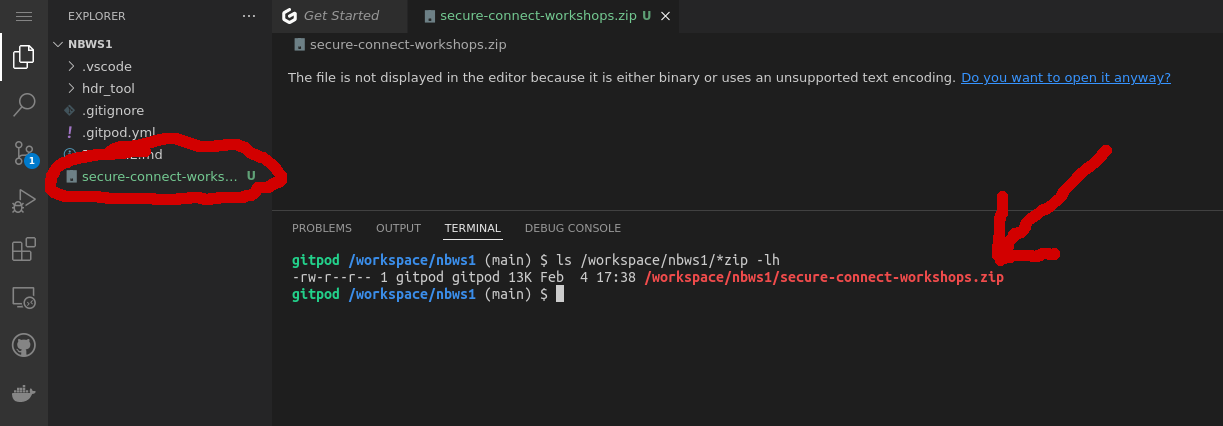
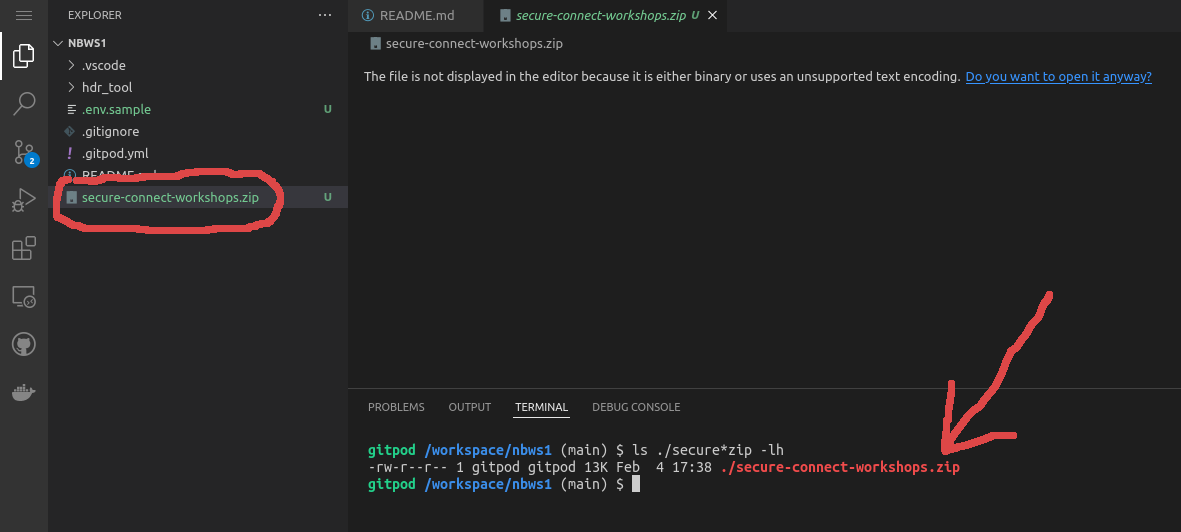
more instructions and guide

diff --git a/README.md b/README.md
@@ -22,7 +22,7 @@ In this repository you will find all material and references you need:
 1. Before you start
 2. Create your Astra DB instance
 3. Launch Gitpod and setup NoSQLBench
-4. XXX
+4. Run benchmarks
 
 
 
@@ -97,7 +97,8 @@ and scripts, even launching containers from within it).
 
 The button below will: spawn your own Gitpod container + clone this repository
 in it + preinstall the required dependencies: **ctrl-click on
-it** to make sure you "Open in new tab":
+it** to make sure you "Open in new tab" (Note: you may have to authenticate
+through Github in the process):
 
 [![Open in Gitpod](https://gitpod.io/button/open-in-gitpod.svg)](https://gitpod.io/#https://github.com/hemidactylus/nbws1)
 
@@ -157,56 +158,169 @@ the file navigator panel ("Explorer") on the left of the Gitpod view.
 Once you drop it you will see it listed in the file explorer itself.
 As a check, you can issue the command
 ```
-ls /workspace/nbws1/*zip -lh
+ls ./secure*zip -lh
 ```
 
-so that you get the _full path to your bundle file_ (and also verify that it is
-the correct size).
+so that you get the _relative path to your bundle file_ (and also verify that it is
+the correct size). Note that, as per best practices with NoSQLBench, (relative)
+paths to files should start with `./`.
 
 <details><summary>Show me</summary>
     <img src="https://github.com/hemidactylus/nbws1/raw/main/images/gitpod_uploading_bundle_2_annotated.png?raw=true" />
 </details>
 
 
-### Configure the Astra DB token
+### Configure the Astra DB parameters
 
-with an `.env` file you then `source`.
+If we want NoSQLBench to access the Astra DB instance, we have to pass it
+the required connection parameters and secret. To do so, we now set up
+a `.env` file, which will make our life easier later.
 
+Copy the provided template file to a new one and open it in the Gitpod
+file editor:
 ```
-MY_CLIENT_ID=...
-MY_CLIENT_SECRET=...
+cp .env.sample .env
+gp open .env
+# (you can also simply locate the file
+#  in the Explorer and click on it)
 ```
 
-## XXX
+Insert the "Client ID" and "Client Secret" of the DB Token you created earlier
+and, if necessary, adjust the other variables.
+
+<details><summary>Show me what the .env file could look like</summary>
+    <img src="https://github.com/hemidactylus/nbws1/raw/main/images/dotenv.png?raw=true" />
+</details>
+
+Now, source this file to make the definitions therein available to this shell:
+```
+. .env
+```
+
+(Note that you will have to source the file in any new shell you plan to use).
+
+
+
+## Run benchmarks
+
+Everything is set to start running the tool.
+
 
 ### A short dry run
 
-Launch a 2-statement `driver=console` (TO ADD)
+From a user's perspective, NoSQLBench sends operations (e.g. reads, writes)
+to the target system (e.g. a database) and record how the latter responds
+(failures and, most important, response time).
+
+Try launching this very short "dry-run benchmark", that instead of actually
+reaching the database simply prints a series of CQL statements to the console
+(as specified by the `driver` parameter):
+
+```
+nb cql-keyvalue astra                   \
+    driver=stdout                       \
+    main-cycles=10                      \
+    rampup-cycles=10                    \
+    keyspace=${ASTRA_DB_KEYSPACE_NAME}
+```
+
+You will see 21 (fully-formed, valid CQL) statements being printed:
+one `CREATE TABLE`, then ten `INSERT`s
+and then another ten between `SELECT`s and further `INSERT`s.
+
+This corresponds
+to the three phases defined in the `cql-keyvalue` _workload_: **schema**,
+**rampup** and **main**. The most relevant benchmark results are from the
+**main** phase, which mimics the kind of load the database would be subject to
+when operating normally.
+
+Now copy the few last lines of the output to a temporary file in the Gitpod
+editor and re-launch the above dry run:
+
+```
+nb cql-keyvalue astra                   \
+    driver=stdout                       \
+    main-cycles=10                      \
+    rampup-cycles=10                    \
+    keyspace=${ASTRA_DB_KEYSPACE_NAME}
+```
+
+do you notice that the output is identical down to the actual values used
+in the `INSERT`s and `DELETE`s?
+Indeed an important goal for any benchmark is its _reproducibility_:
+here, among other
+consequences, this means that the operations (their sequence and contents alike)
+should be completely determined with no trace of randomness.
+
+You can also peek in the `logs` directory now: it is created automatically and
+populated with some information from the benchmark at each execution of `nb`.
+
 
 ### Benchmark your Astra DB
 
-Launch this command (explained in the slides, line by line)
+It is now time to start hitting the database!
+What you launched earlier is the `cql-keyvalue` _workload_, one of several
+ready-to-use included with NoSQLBench (but you can build your own).
+In particular, you ran the `astra` _scenario_, which determines a particular
+way the workload is to be unfolded and executed.
 
-You can keep it open in the editor as well for ease of usage
+This time we will have `driver=cql` to actually reach the database:
+for that to work, we will provide all connections parameters we set up earlier.
+
+We will ask NoSQLBench to perform a substantial amount of operations, so to have
+enough statistical support for the results.
+
+> On the other hand, we will rate-limit the operations sent to the database
+> (with the `cyclerate` parameter). This is mainly because often the goal
+> of a benchmark is to verify whether the system can withstand
+> a _known, controlled_ workload;
+> but in this case there are also other practical reasons: (1) we don't want
+> you to consume
+> too much of your Free Tier monthly allowance in this "functional demo"; moreover,
+> (2) if you are running on the Free Tier you may otherwise hit the
+> guardrails and the performance limitations coming with that class of Astra DB
+> instances.
+
+Here is the full command to launch:
 
 ```
-./nb cql-keyvalue \
-    astra \
-    username=${MY_CLIENT_ID} \
-    password=${MY_CLIENT_SECRET} \
-    secureconnectbundle=./secure-connect-workshops.zip \
-    driver=cql \
-    main-cycles=200000 \
-    rampup-cycles=200000 \
-    keyspace=nbkeyspace \
-    --progress console:5s \
-    --log-histograms 'histogram_hdr_data.log:.*.cycles.servicetime:20s' \
+nb cql-keyvalue                                                           \
+    astra                                                                 \
+    username=${ASTRA_DB_CLIENT_ID}                                        \
+    password=${ASTRA_DB_CLIENT_SECRET}                                    \
+    secureconnectbundle=${ASTRA_DB_BUNDLE_PATH}                           \
+    keyspace=${ASTRA_DB_KEYSPACE_NAME}                                    \
+    cyclerate=100                                                         \
+    driver=cql                                                            \
+    rampup-cycles=40000                                                   \
+    main-cycles=40000                                                     \
+    --progress console:5s                                                 \
+    --log-histograms 'histogram_hdr_data.log:.*.cycles.servicetime:20s'   \
     --log-histostats 'hdrstats.log:cqlkeyvalue_default_main.cycles.servicetime:20s'
 ```
 
-? ADD `cyclerate` here for keeping in control (also can have a theoretical value imo)
+<details><summary>Show me the command breakdown</summary>
 
-? add a note on "what {you see / you have to do} if the DB is hibernated"
+Note that some of the parameters (e.g. `keyspace` are workload-specific)
+
+| command | meaning |
+|---------|---------|
+| `cql-keyvalue`                                        | workload
+| `astra`                                               | scenario
+| `username=...`                                        | authentication
+| `password=...`                                        | authentication
+| `secureconnectbundle=...`                             | Astra DB connection parameters
+| `keyspace=`                                           | target keyspace
+| `cyclerate=100`                                       | rate-limiting (100 per second)
+| `driver=cql`                                          | driver to use (CQL to speak with Astra DB/Cassandra)
+| `rampup-cycles=40000`                                 | 
+| `main-cycles=40000`                                   | how many operations in the "main" phase
+| `--progress console:5s`                               | same for the "rampup" phase
+| `--log-histograms 'histogram_hdr_data.log:[...]:20s'` | write data to HDR file (see later)
+| `--log-histostats 'hdrstats.log:[...]:20s'`           | write some more stats to this file
+
+
+</details>
 
 While it runs:
 

diff --git a/TODO.md b/TODO.md
@@ -2,3 +2,4 @@
 
 make sure instructions cover the run-locally case (paths, no gitpod, etc)
 
+add a note "what you'll see / what you have to do" if DB is hibernated (at first astra launch)
